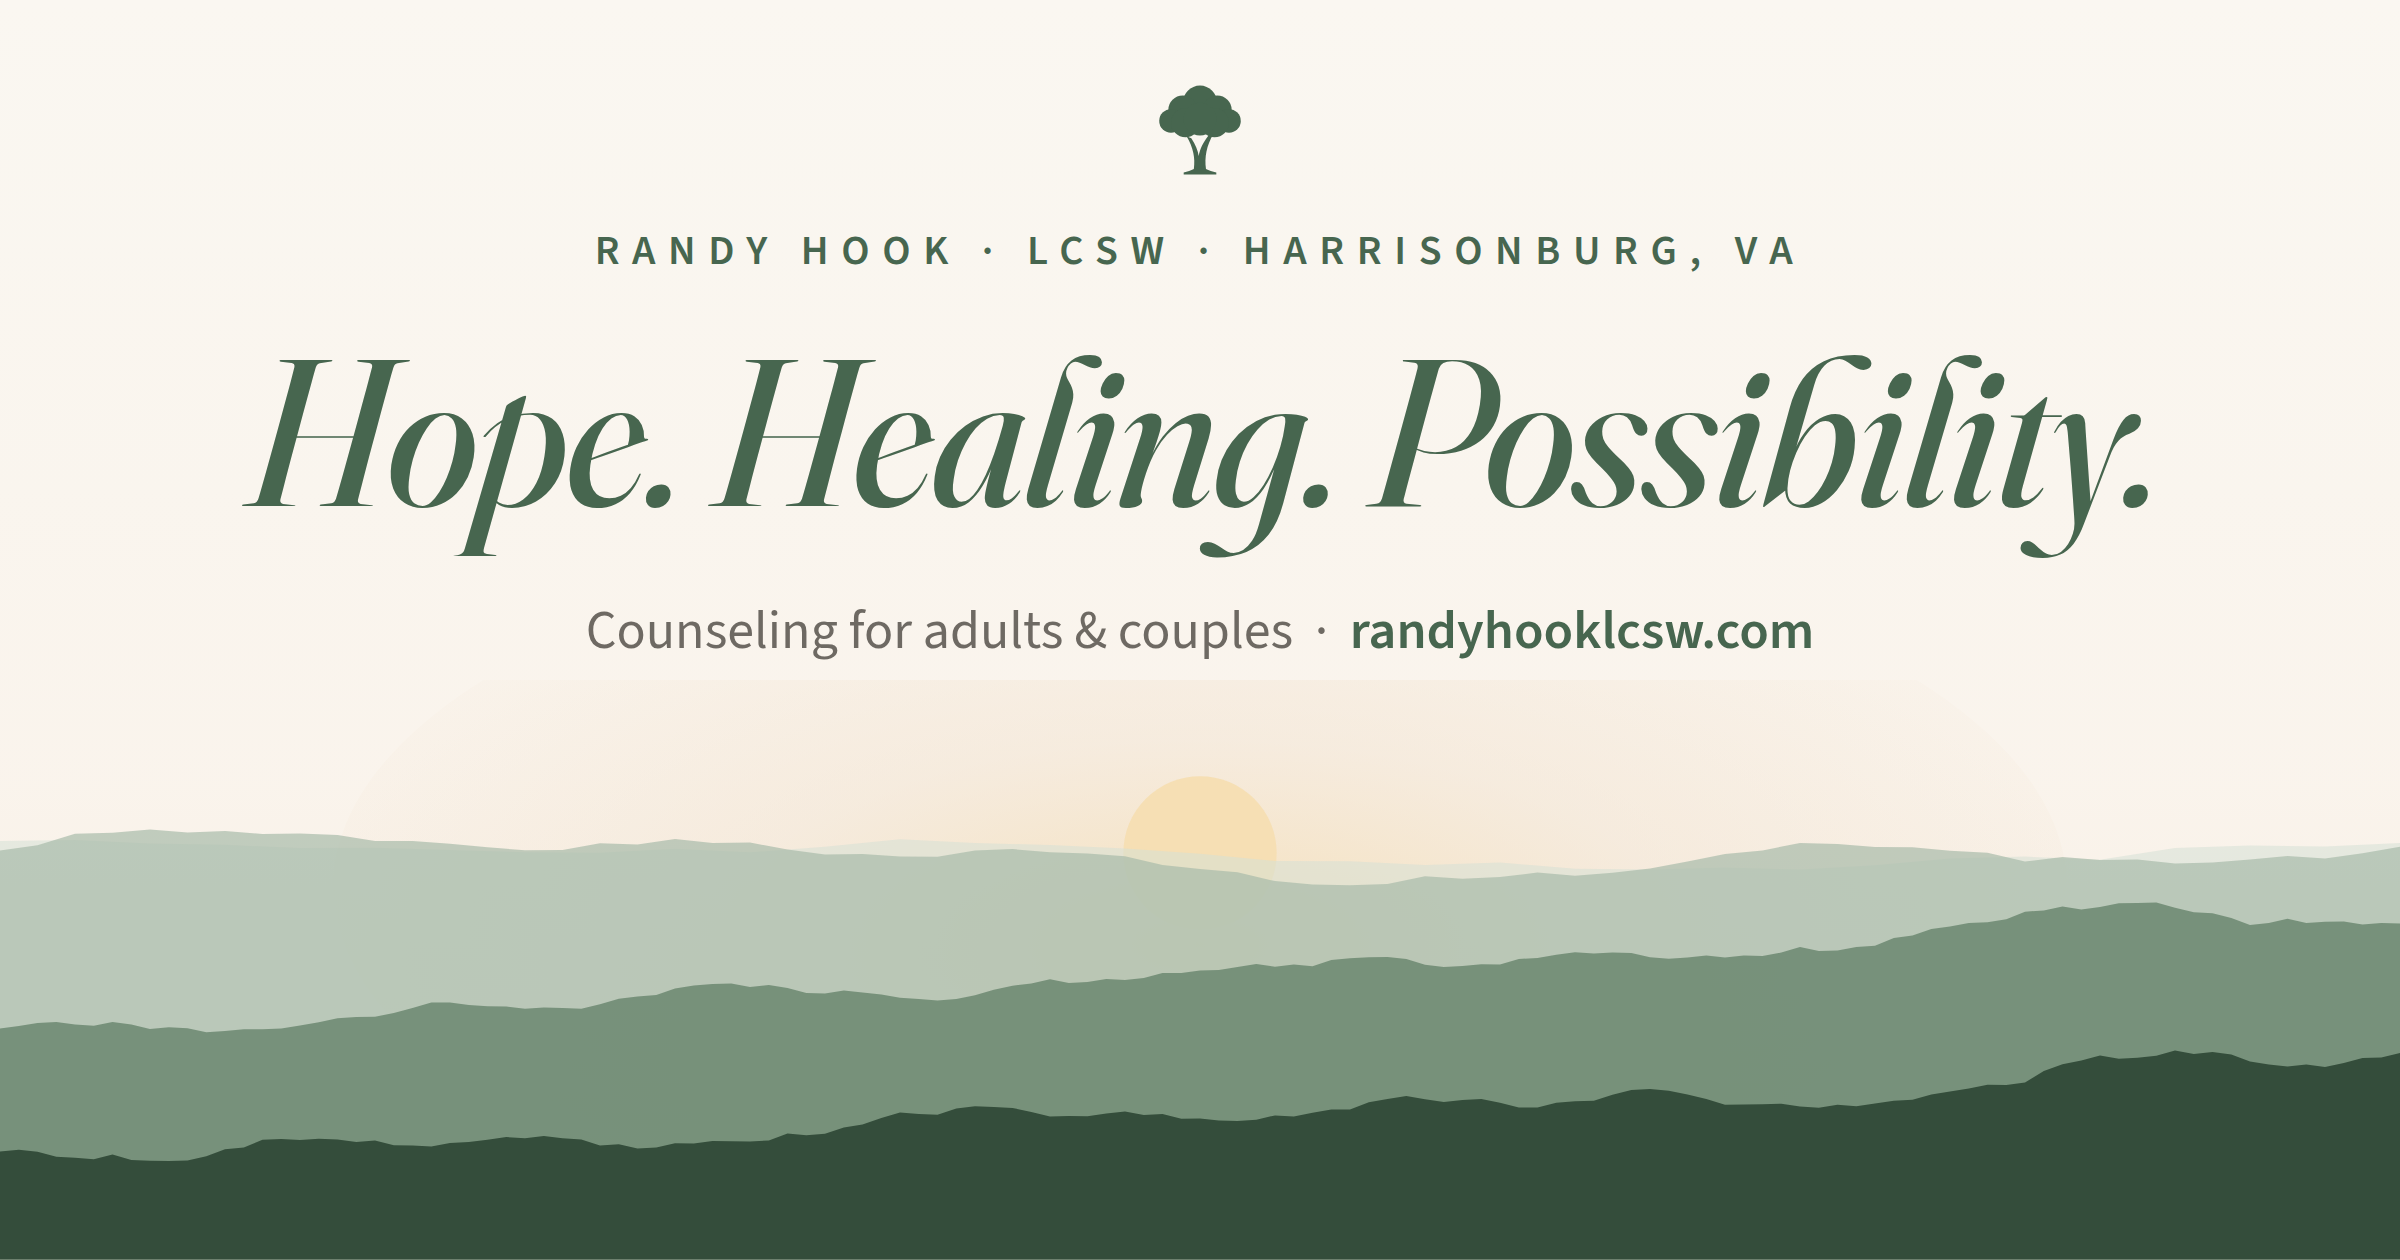
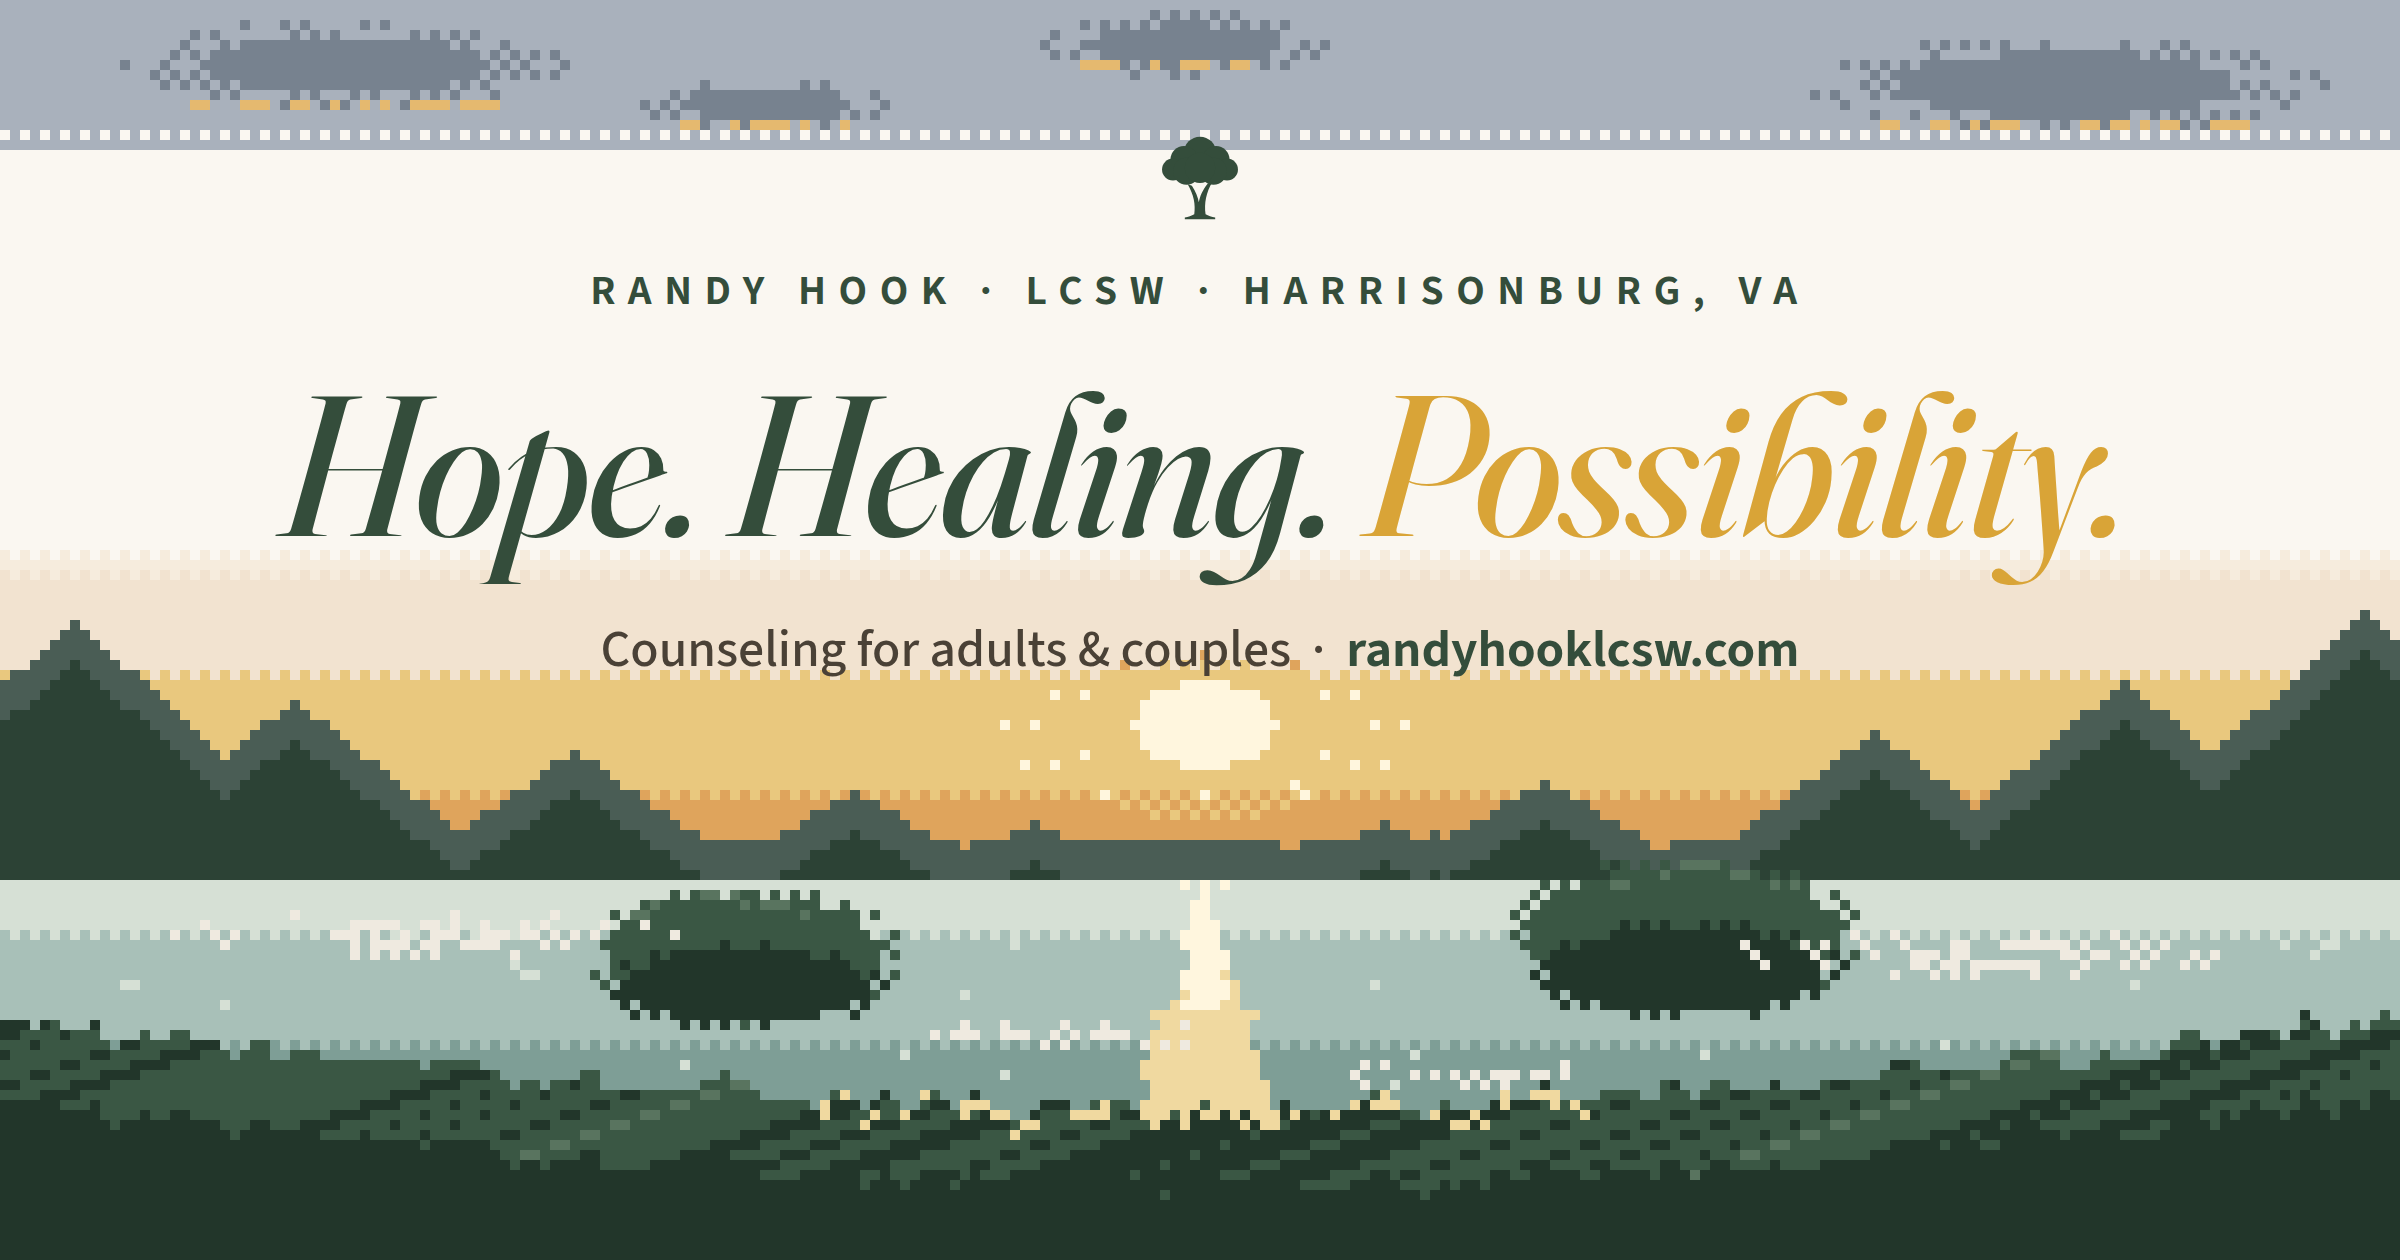
Pixel-art share card, sun-gold 'possibility'
- public/og.png is now a pixel-art recreation of the practice's sunrise
  reference in the brand palette: 240x126 grid rendered as crisp 10px
  cells — triangular peaks with a sunlit gap, drifting clouds, a misty
  lake catching the sun's widening reflection, island mounds, and a low
  foreground canopy, beneath the oak mark and Fraunces title
- New --sun token (#D9A437); the hero's 'possibility' and the card's
  'Possibility.' now carry the yellow of the sun

Claude-Session: https://claude.ai/code/session_01WdZDyjieDjbcMvc7etdzmq

diff --git a/src/app/page.tsx b/src/app/page.tsx
@@ -48,7 +48,7 @@ function Hero() {
           I believe in <em className="text-accent">healing</em>…
           <br />
           and I believe deeply in the power of{" "}
-          <em className="text-accent">possibility</em>.
+          <em className="text-sun">possibility</em>.
         </h1>
         <p
           className="mt-6 max-w-xl text-balance text-base leading-relaxed text-ink/70 sm:text-lg animate-fade-up"

diff --git a/tailwind.config.ts b/tailwind.config.ts
@@ -18,6 +18,7 @@ const config: Config = {
         "accent-deep": "rgb(var(--accent-deep) / <alpha-value>)",
         clay: "rgb(var(--clay) / <alpha-value>)",
         gold: "rgb(var(--gold) / <alpha-value>)",
+        sun: "rgb(var(--sun) / <alpha-value>)",
         dawn: "rgb(var(--dawn) / <alpha-value>)",
         mist: "rgb(var(--mist) / <alpha-value>)",
       },

diff --git a/src/app/globals.css b/src/app/globals.css
@@ -20,6 +20,7 @@
 
   --clay: 192 133 82; /* warm clay             #C08552 */
   --gold: 197 164 98; /* dawn gold             #C5A462 */
+  --sun: 217 164 55; /* the sun itself         #D9A437 */
   --dawn: 242 227 208; /* first-light blush    #F2E3D0 */
   --mist: 214 224 213; /* valley mist          #D6E0D5 */
 
